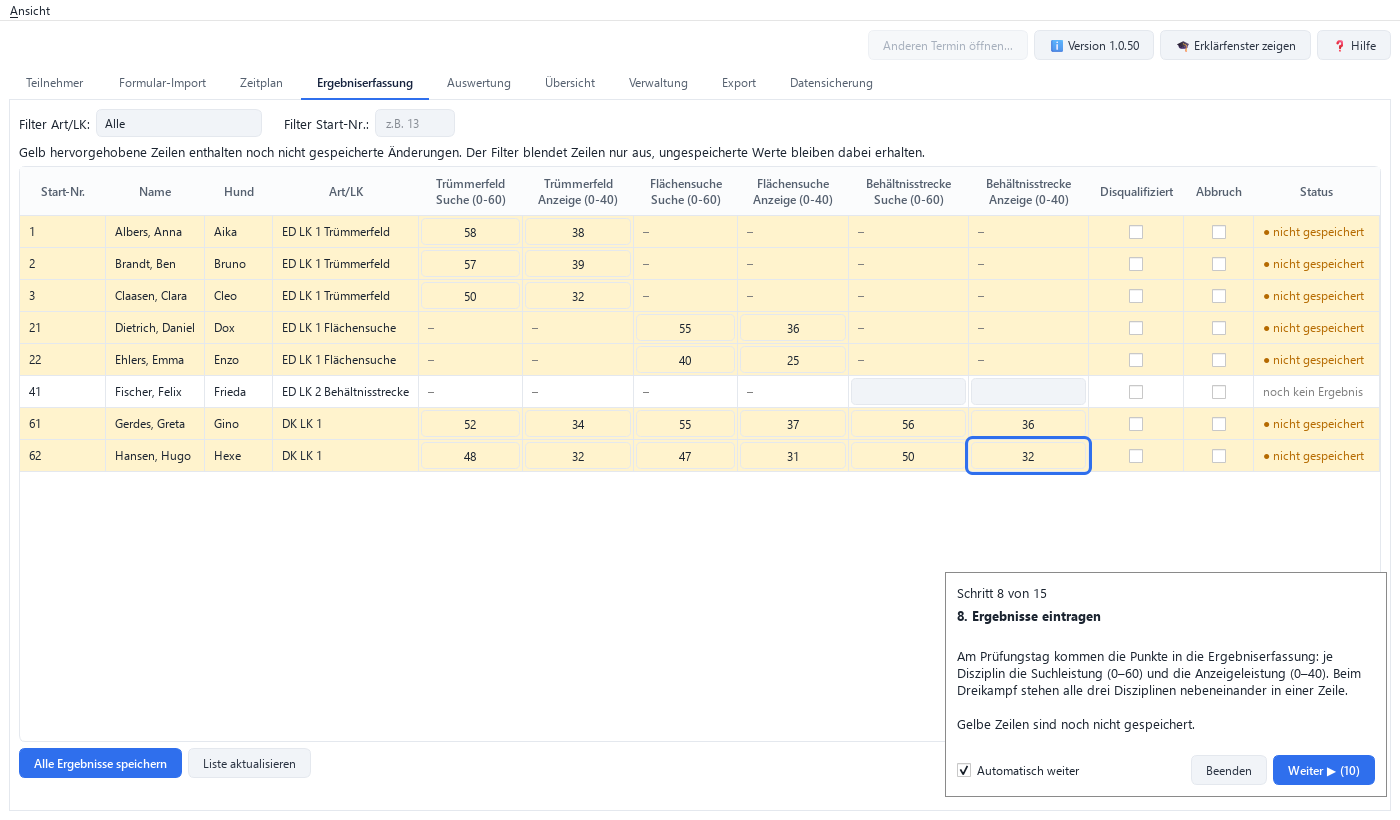
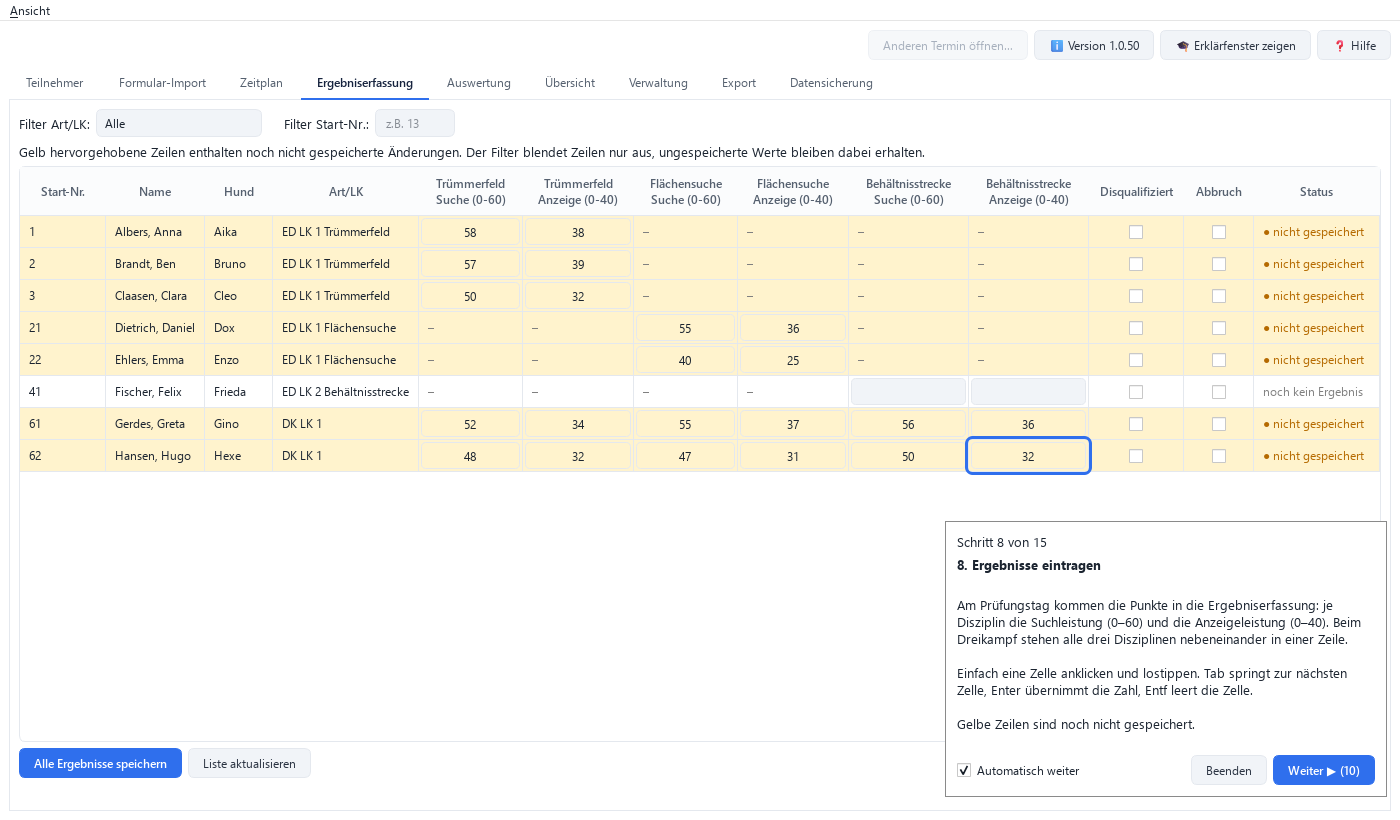
Demoprüfung: Erklärtexte zur neuen Ergebniserfassung
Schritt 8 erklärt Lostippen, Tab, Enter und Entf; Schritt 9 nennt Klick bzw.
Leertaste für die Haken und die grau gesperrten Punktezellen. Demo-Screenshot neu.

Claude-Session: https://claude.ai/code/session_012b7zd73cSpTnLoukX6iBJQ

Changed region(s): [[0.6757, 0.6402, 0.9521, 0.8537]]

diff --git a/desktop_demo.py b/desktop_demo.py
@@ -905,14 +905,16 @@ class DemoTour(QObject):
                 "Am Prüfungstag kommen die Punkte in die Ergebniserfassung: je Disziplin die "
                 "Suchleistung (0–60) und die Anzeigeleistung (0–40). Beim Dreikampf stehen "
                 "alle drei Disziplinen nebeneinander in einer Zeile.\n\n"
+                "Einfach eine Zelle anklicken und lostippen. Tab springt zur nächsten Zelle, "
+                "Enter übernimmt die Zahl, Entf leert die Zelle.\n\n"
                 "Gelbe Zeilen sind noch nicht gespeichert.",
                 self._aktionen_ergebnisse,
             ),
             DemoSchritt(
                 "9. Disqualifikation",
                 "Wird ein Team disqualifiziert oder bricht ab, setzt man den Haken "
-                "„Disqualifiziert“ bzw. „Abbruch“. Die Punktefelder werden dann geleert und "
-                "gesperrt.\n\n"
+                "„Disqualifiziert“ bzw. „Abbruch“ (per Klick oder mit der Leertaste). Die "
+                "Punktezellen werden dann geleert und grau gesperrt.\n\n"
                 "Das Team bekommt keine Wertnote und keinen Platz, zählt aber bei der Zahl "
                 "der Starter mit.",
                 self._aktionen_disqualifikation,
